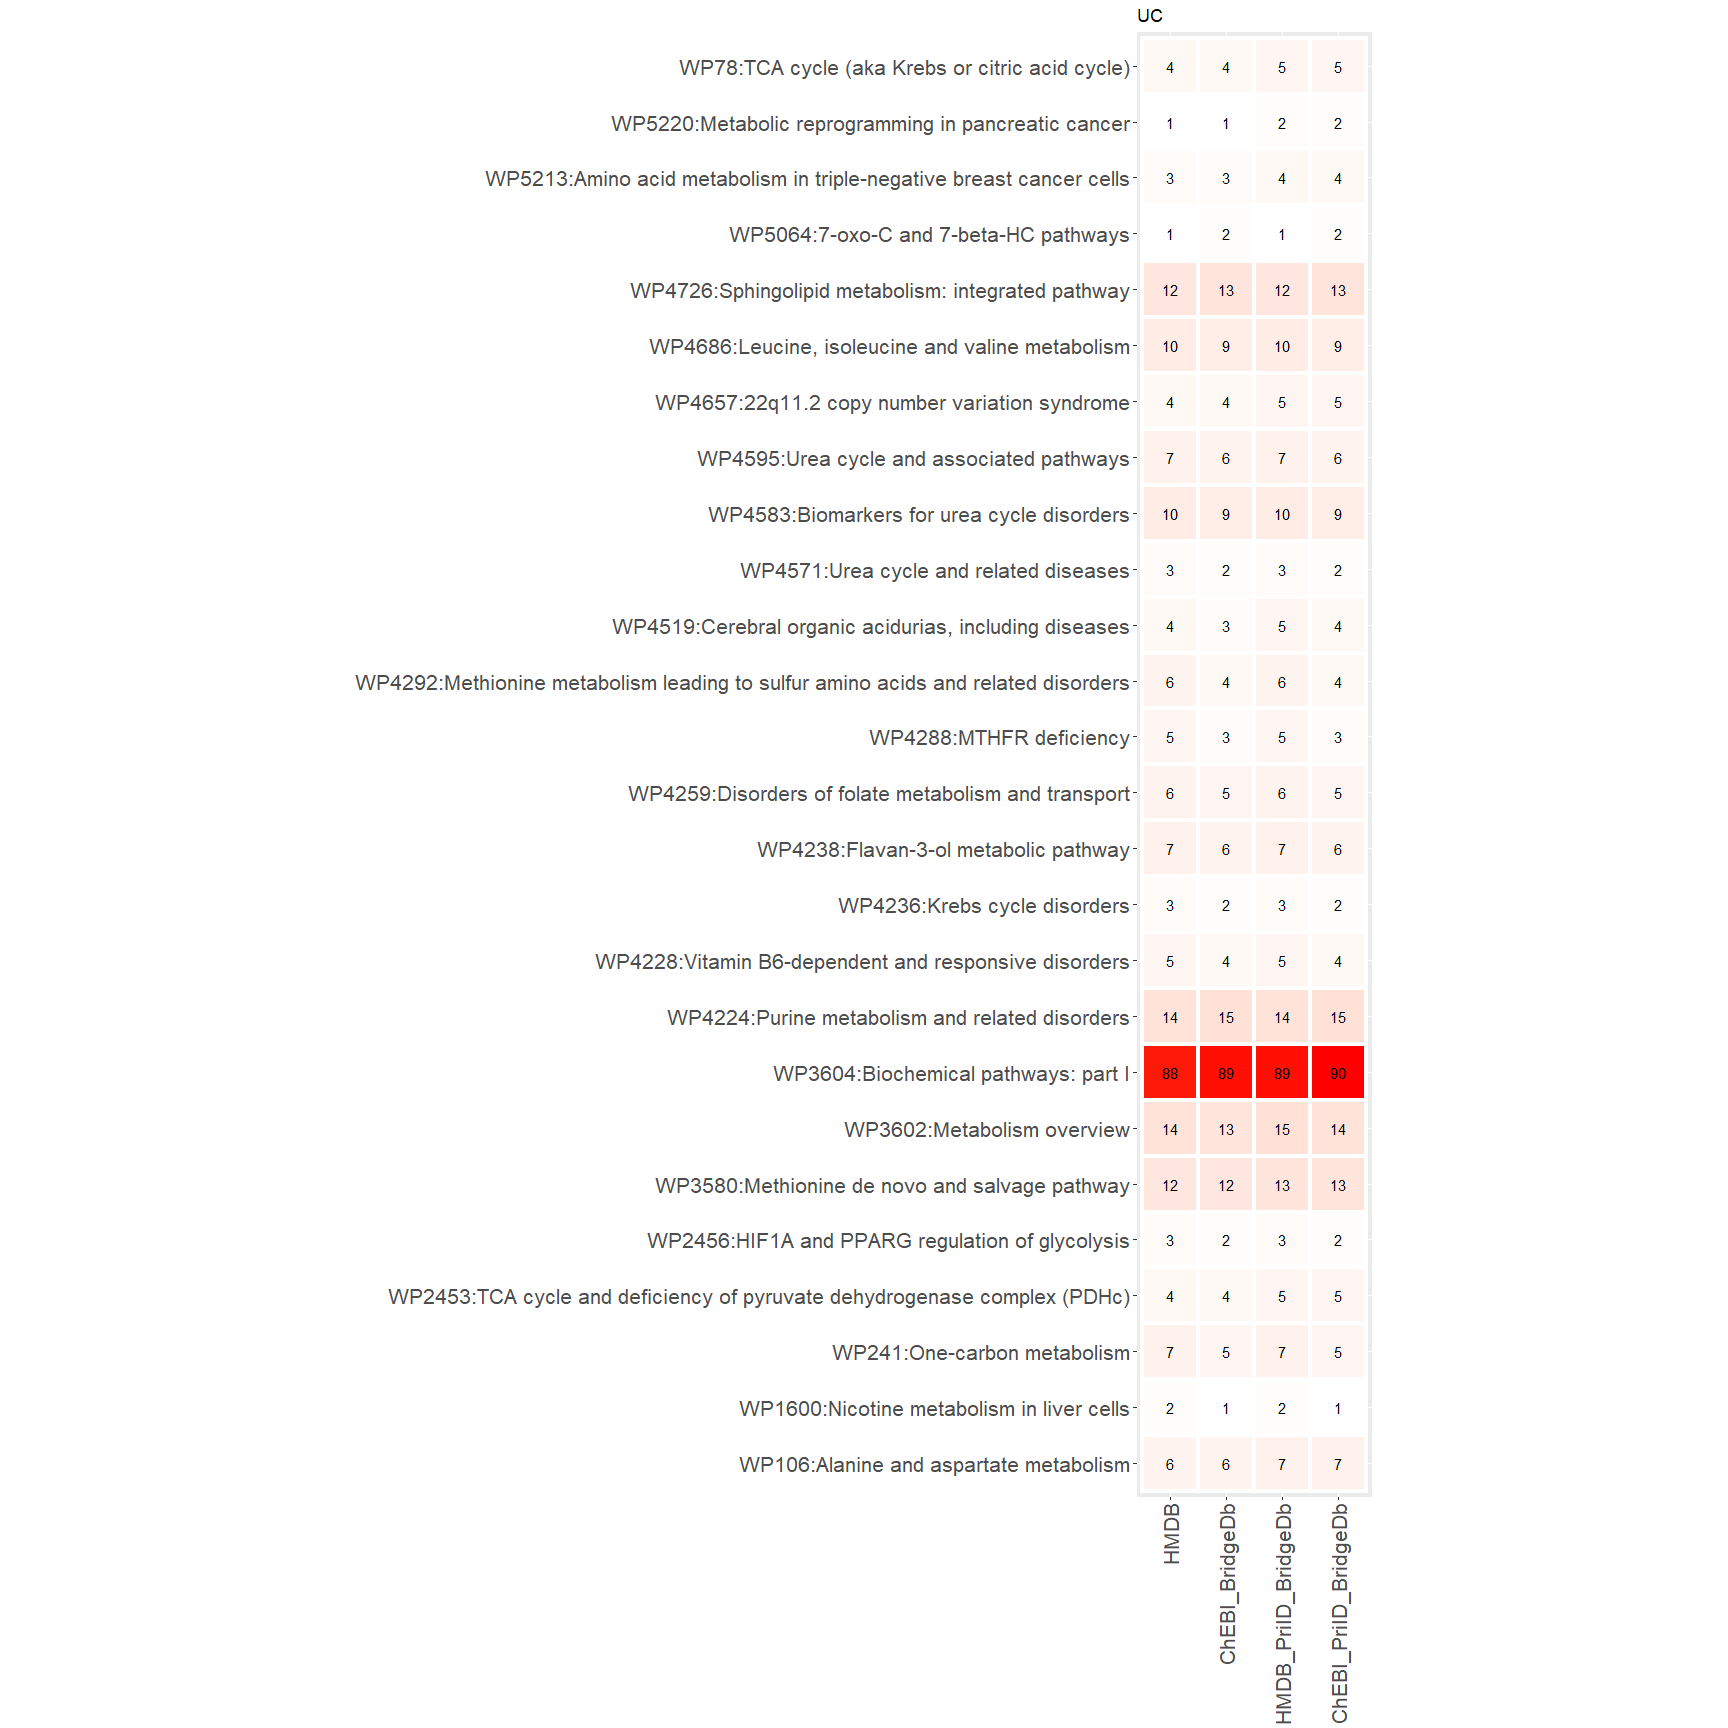
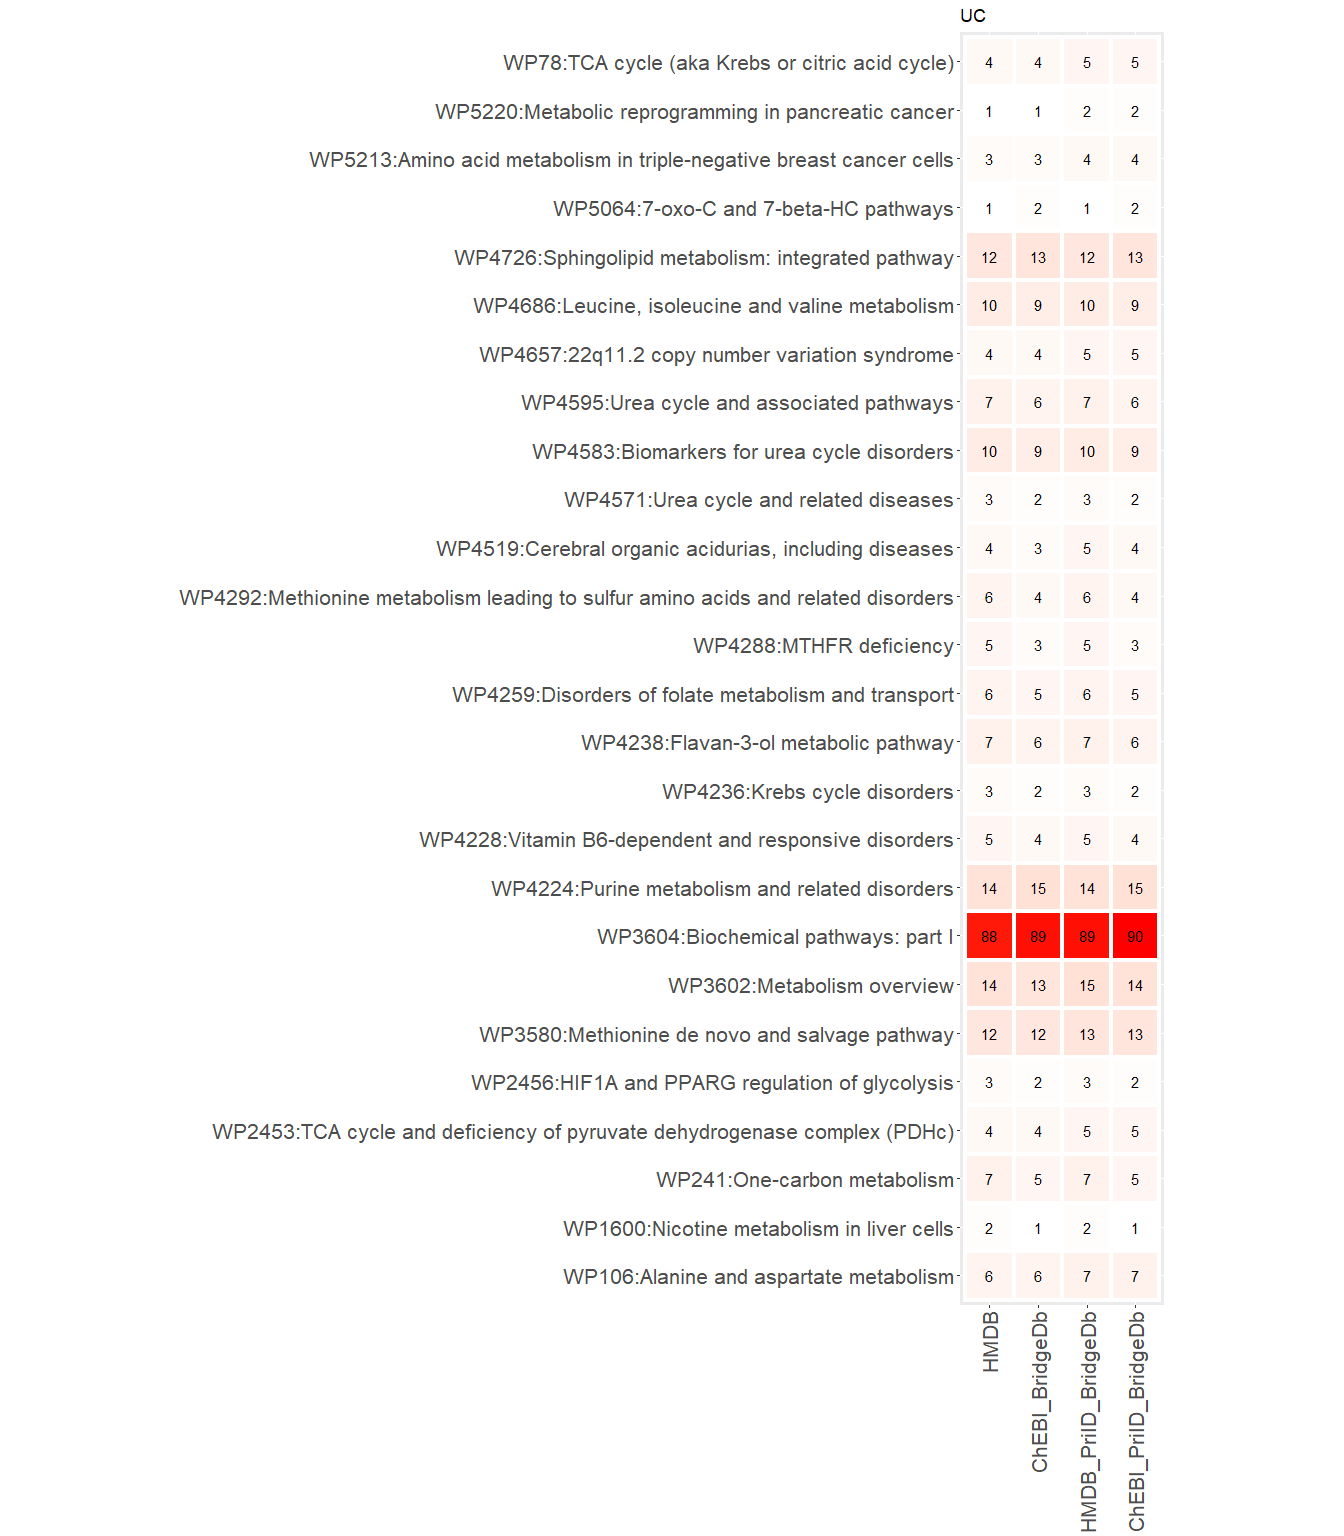
figures step 4

Changed region(s): [[0.125, 0.0312, 0.875, 0.875], [0.6562, 0.8438, 0.875, 1.0]]

diff --git a/scripts/4-pathway_analysis_metabolomics/pathway_analysis_metabolomics.md b/scripts/4-pathway_analysis_metabolomics/pathway_analysis_metabolomics.md
@@ -213,7 +213,8 @@ ggplot(CombinePWs_CD_toPlot, aes(x = variable, y = pathway, fill = value)) +
   scale_fill_gradient(low = "white", high = "red") +
   labs(y = NULL, x = NULL) +
   geom_text(aes(label = value), color = "black", size = 4) +
-  theme(axis.text.x = element_text(angle = 90, vjust = 0.5, hjust = 1),
+  theme(axis.text.x = element_text(angle = 90, vjust = 0.5, hjust = 1, size = 16),
+        axis.text.y = element_text(size = 16),
         legend.position = "none") +
   ggtitle("CD")
 ```
